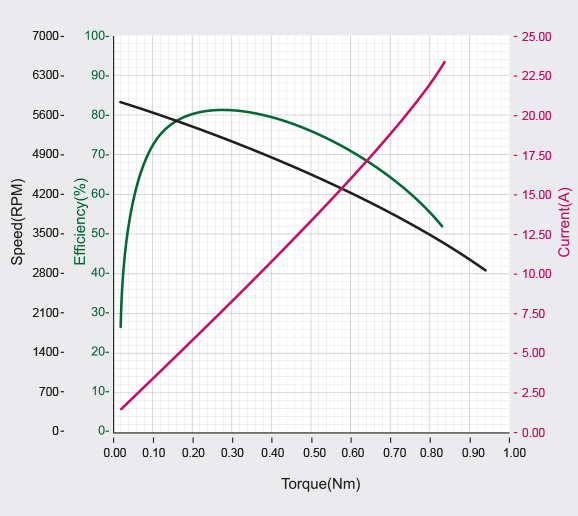
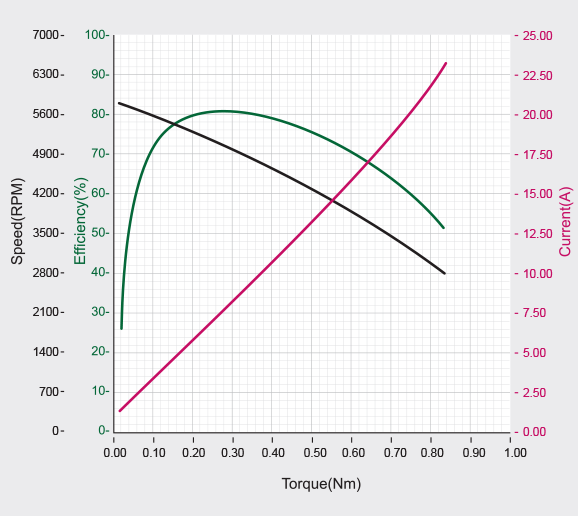
release DY kr 2

diff --git a/docs/kr/dxl/y/ym080-230-m001-rh.md b/docs/kr/dxl/y/ym080-230-m001-rh.md
@@ -28,9 +28,7 @@ product_group: dxl_y_m
 
 ## [성능 그래프](#성능-그래프)
 
-<!--![](/assets/images/dxl/y/ym080_230_m001_performance_graph.png)-->
-
-TBD
+![](/assets/images/dxl/y/ym080_230_m001_performance_graph.png)
 
 {% include kr/dxl/note_performance_graph.md %}
 

diff --git a/docs/kr/dxl/y/ym070-210-m001-rh.md b/docs/kr/dxl/y/ym070-210-m001-rh.md
@@ -28,9 +28,7 @@ product_group: dxl_y_m
 
 ## [성능 그래프](#성능-그래프)
 
-<!--![](/assets/images/dxl/y/ym070_210_m001_performance_graph.png)-->
-
-TBD
+[](/assets/images/dxl/y/ym070_210_m001_performance_graph.png)
 
 {% include kr/dxl/note_performance_graph.md %}
 

diff --git a/docs/kr/dxl/y/ym080-230-r099-rh.md b/docs/kr/dxl/y/ym080-230-r099-rh.md
@@ -28,7 +28,7 @@ product_group: dxl_y_r
 
 ## [성능 그래프](#성능-그래프)
 
-TBD
+![](/assets/images/dxl/y/ym080_230_r099_performance_graph.png)
 
 {% include kr/dxl/note_performance_graph.md %}
 

diff --git a/docs/kr/dxl/y/ym070-210-r099-rh.md b/docs/kr/dxl/y/ym070-210-r099-rh.md
@@ -28,7 +28,7 @@ product_group: dxl_y_r
 
 ## [성능 그래프](#성능-그래프)
 
-TBD
+[](/assets/images/dxl/y/ym070_210_r099_performance_graph.png)
 
 {% include kr/dxl/note_performance_graph.md %}
 
